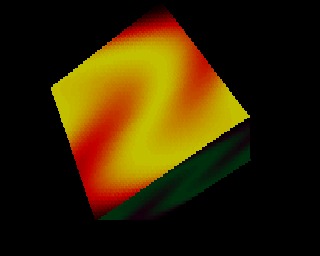
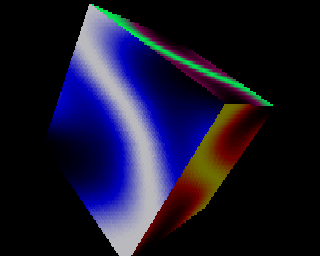
docs: add and update effect screenshots, reference new ones in README
Add screenshots for TECHNO_BARS, LENS_LENS, LENS_ROTO, and COMAN
(classic + remastered). Update existing screenshots for DOTS, PLZ_CUBE,
PLZ_PLASMA, TECHNO_CIRCLES, TUNNELI, and WATER. Wire all new images
into the README screenshots table.

Made-with: Cursor

diff --git a/README.md b/README.md
@@ -134,17 +134,17 @@ Starfield, Copper Bars, Fire, Wireframe 3D, Vector Balls, Bouncing Bitmap, Grid,
 | 7 | Dot tunnel (TUNNELI) | <img src="assets/screenshots/screenshot-tunneli-classic.png" width="160"> | <img src="assets/screenshots/screenshot-tunneli-remastered.png" width="160"> |
 | 8 | Circle interference (TECHNO_CIRCLES) | <img src="assets/screenshots/screenshot-techno_circles-classic.png" width="160"> | <img src="assets/screenshots/screenshot-techno_circles-remastered.png" width="160"> |
 | 9 | Bars transition (TECHNO_BARS_TRANSITION) | | |
-| 10 | Rotating bars (TECHNO_BARS) | | |
+| 10 | Rotating bars (TECHNO_BARS) | <img src="assets/screenshots/screenshot-techno_bars-classic.png" width="160"> | <img src="assets/screenshots/screenshot-techno_bars-remastered.png" width="160"> |
 | 11 | Troll picture (TECHNO_TROLL) | | |
 | 12 | Mountain scroller (FOREST) | | |
 | 13 | Lens slide-in (LENS_TRANSITION) | | |
-| 14 | Bouncing crystal ball (LENS) | | |
-| 15 | Rotozoom (LENS_ROTO) | | |
+| 14 | Bouncing crystal ball (LENS) | <img src="assets/screenshots/screenshot-lens_lens-classic.png" width="160"> | <img src="assets/screenshots/screenshot-lens_lens-remastered.png" width="160"> |
+| 15 | Rotozoom (LENS_ROTO) | <img src="assets/screenshots/screenshot-lens_roto-classic.png" width="160"> | <img src="assets/screenshots/screenshot-lens_roto-remastered.png" width="160"> |
 | 16 | Plasma waves (PLZ_PLASMA) | <img src="assets/screenshots/screenshot-plz_plasma-classic.png" width="160"> | <img src="assets/screenshots/screenshot-plz_plasma-remastered.png" width="160"> |
 | 17 | Plasma cube (PLZ_CUBE) | <img src="assets/screenshots/screenshot-plz_cube-classic.png" width="160"> | <img src="assets/screenshots/screenshot-plz_cube-remastered.png" width="160"> |
 | 18 | Mini vector balls (DOTS) | <img src="assets/screenshots/screenshot-dots-classic.png" width="160"> | <img src="assets/screenshots/screenshot-dots-remastered.png" width="160"> |
 | 19 | Mirror ball scroller (WATER) | <img src="assets/screenshots/screenshot-water-classic.png" width="160"> | <img src="assets/screenshots/screenshot-water-remastered.png" width="160"> |
-| 20 | 3D sinusfield (COMAN) | | |
+| 20 | 3D sinusfield (COMAN) | <img src="assets/screenshots/screenshot-coman-classic.png" width="160"> | <img src="assets/screenshots/screenshot-coman-remastered.png" width="160"> |
 | 21 | Jelly logo (JPLOGO) | | |
 | 22 | 3D city flyover (U2E) | | |
 | 23 | End picture (ENDLOGO) | | |
